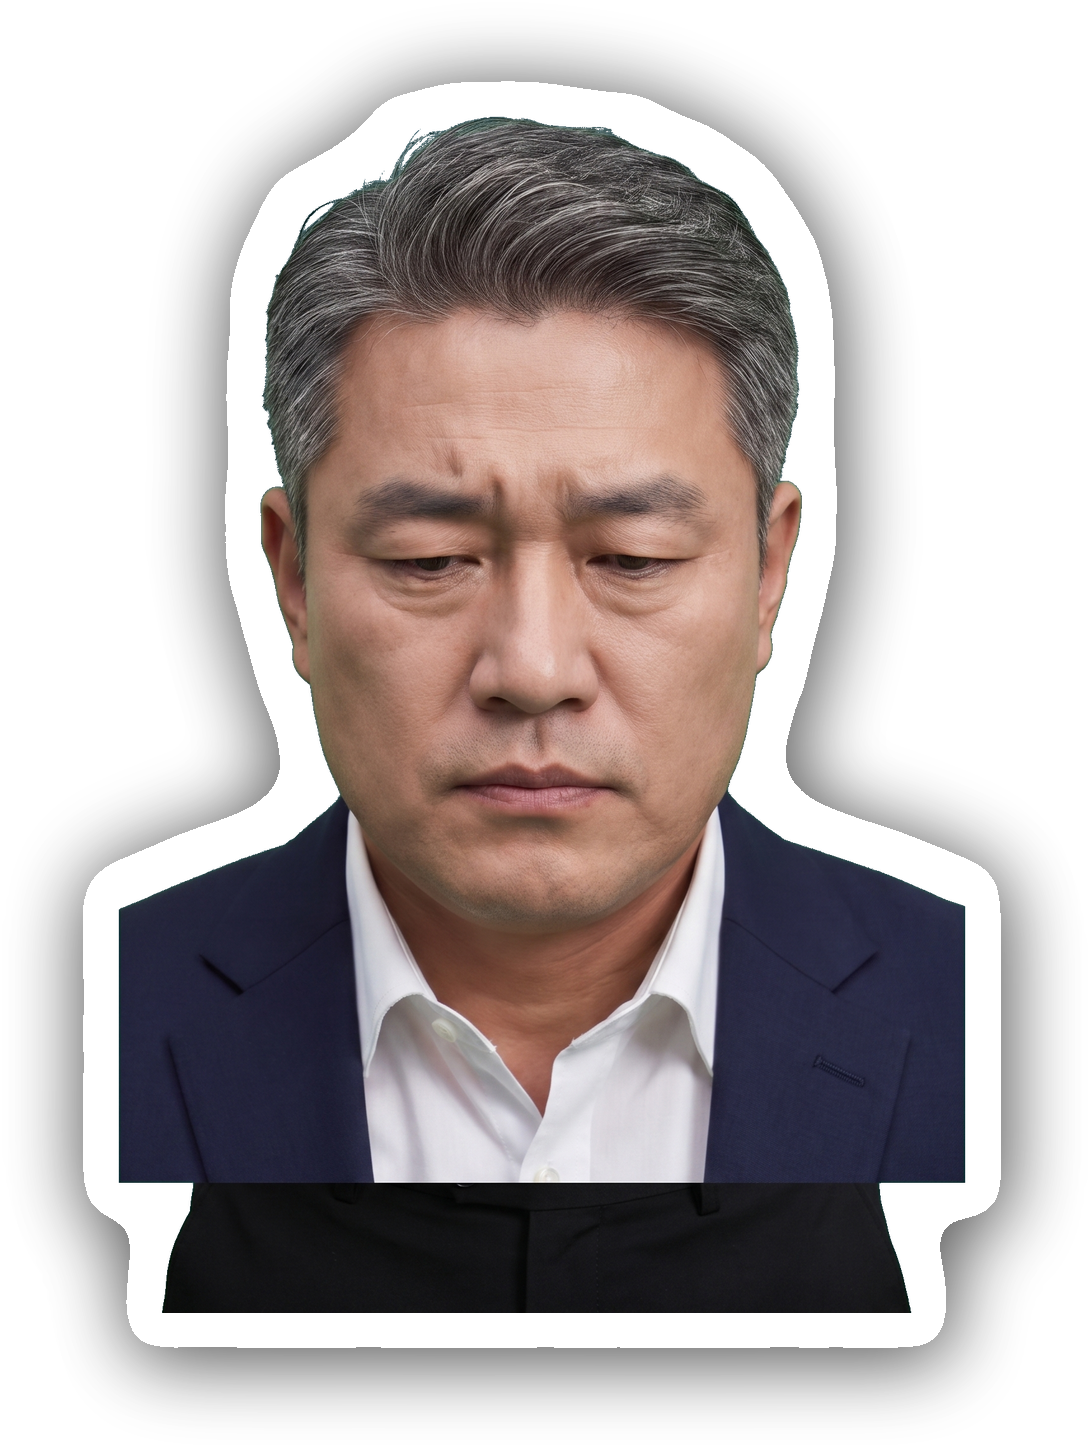
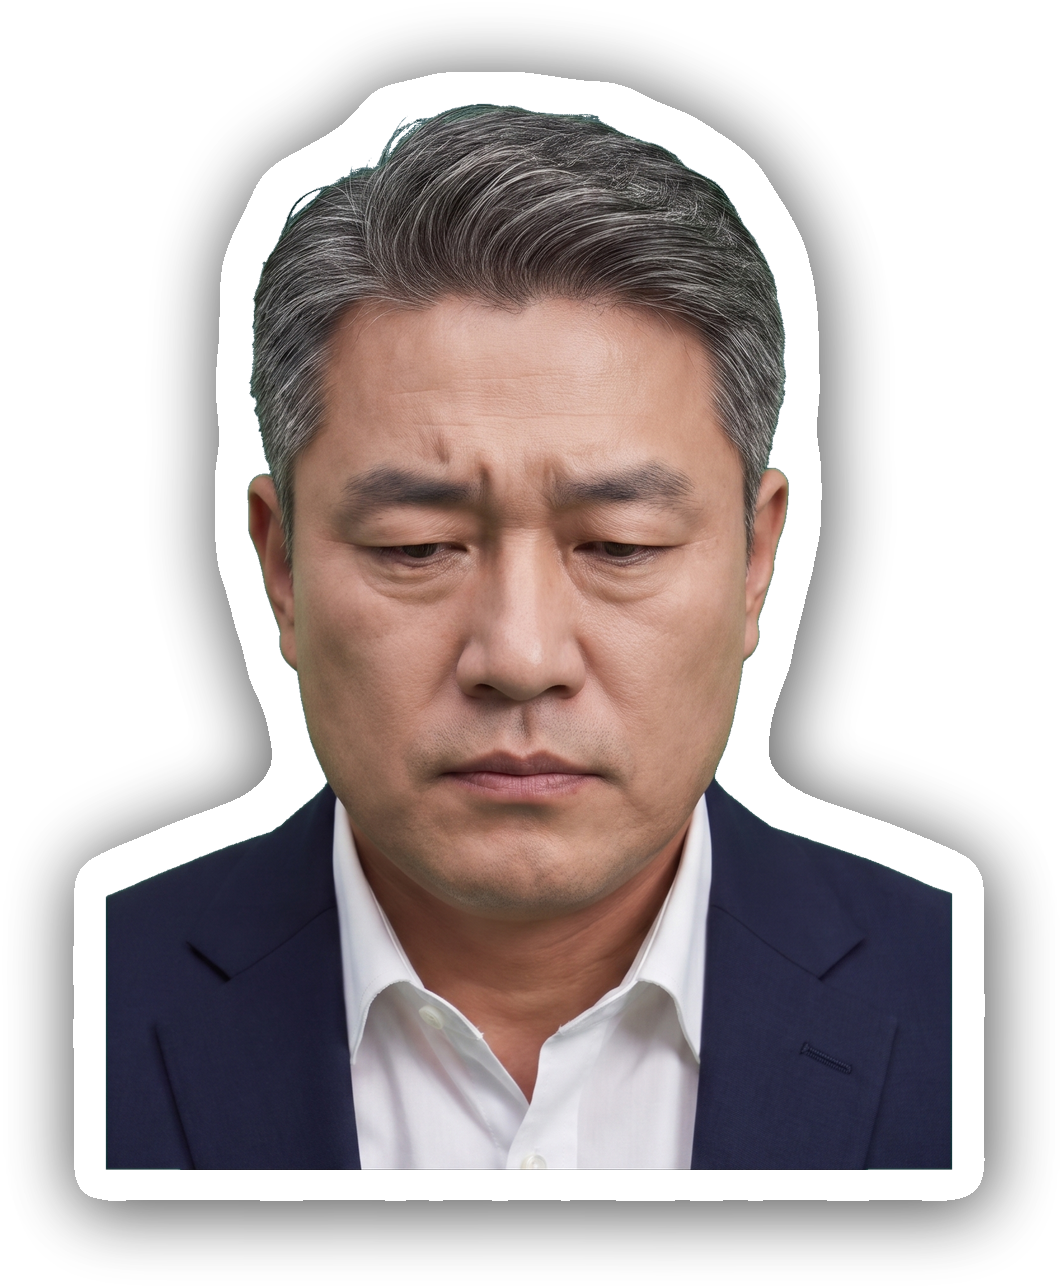
인물 아래에 남은 검은 띠를 잘라낸다 (src/blackbar.py)
시트에서 칸 아래 경계선이 인물과 함께 딸려 나왔고, 그 위에 흰 테두리가 둘러져
인물 밑에 '검은 가로 띠 + 흰 테두리' 가 붙어 있었다. 25장 중 11장.
  M50A/bust_sad 131px · F50A 8~10px · JUDGE 5px · M50B 3~4px

방법 (API 호출 0회)
  ① 흰 테두리를 벗긴다 — 바깥에서 흰색을 타고 들어가며 지운다
  ② 맨 아래에서 위로 훑으며 한 줄이 통째로 검은 구간을 센다
  ③ 그만큼 잘라내고 흰 테두리를 다시 두른다

⚠ 옷의 검정과 구분하는 방법을 두 번 바꿨다
   처음엔 '밝기 편차가 작고 좌우 끝이 자로 그은 듯 일정할 것' 으로 걸렀는데
   실제 파일이 전부 탈락했다(실측: 편차 41.6, 좌끝 흔들림 99px).
   인쇄된 선처럼 깔끔하지 않기 때문이다.
   지금은 **두께 상한**(그림 높이의 15%)으로 가른다 — 띠는 얇고 검은 옷은 두껍다.
   전신(full_*)은 아예 건드리지 않는다. 검은 바지·구두가 있어 위험하다.

diff --git a/src/blackbar.py b/src/blackbar.py
@@ -1,0 +1,137 @@
+#!/usr/bin/env python3
+"""컷아웃 아래에 남은 **검은 띠**를 잘라낸다.
+
+    python3 src/blackbar.py --dry      잘라낼 곳만 확인
+    python3 src/blackbar.py            실제로 잘라내고 저장
+    python3 src/blackbar.py --only M50A
+
+무엇이 문제였나
+    인물 시트에서 칸 아래쪽 경계선이 인물과 함께 딸려 나왔다. 그 위에 흰 테두리가
+    둘러지면서, 인물 밑에 **검은 가로 띠 + 흰 테두리**가 붙은 채로 남았다.
+
+어떻게 잘라내나
+    ① 흰 테두리를 벗긴다 — 바깥(투명한 곳)에서 흰색을 타고 들어가며 지운다.
+       ⚠ 알파를 깎는 방법은 안 된다. 테두리를 만들 때 머리카락 사이 같은 오목한 곳이
+          흰색으로 메워지는데, 같은 만큼 깎아도 그 메움은 열리지 않는다.
+    ② 맨 아래에서 위로 훑으며 '거의 완전한 검정이 가로로 쭉 이어지는 줄' 을 센다.
+       옷의 검정과 구분되는 이유: 이 띠는 **한 줄이 통째로 새까맣고 폭이 일정하다.**
+    ③ 그만큼 잘라내고 흰 테두리를 다시 두른다.
+
+    ⚠ 전신(full_*)에는 손대지 않는다. 검은 바지·구두가 있어 잘못 자를 위험이 있다.
+"""
+import argparse
+from pathlib import Path
+
+from PIL import Image, ImageChops, ImageDraw, ImageFilter
+
+import sys
+sys.path.insert(0, str(Path(__file__).resolve().parent))
+import assets_gen as A  # noqa: E402
+
+ROOT = Path(__file__).resolve().parent.parent
+CHAR = ROOT / "assets" / "char"
+
+DARK = 62            # 이 값보다 어두우면 '검정' 으로 본다
+FILL = 0.93          # 한 줄에서 검정이 차지해야 하는 최소 비율
+MIN_BAND = 0.003     # 그림 높이의 이 비율보다 두꺼워야 띠로 인정한다
+MAX_BAND = 0.15      # 이보다 두꺼우면 띠가 아니라 검은 옷이다 — 건드리지 않는다
+
+
+def strip_outline(sp, white_at=238):
+    """흰 스티커 테두리를 벗긴다 — 바깥에서 흰색을 타고 들어가며 지운다."""
+    pad = 2
+    W, H = sp.width + pad * 2, sp.height + pad * 2
+    big = Image.new("RGBA", (W, H), (0, 0, 0, 0))
+    big.paste(sp, (pad, pad))
+    r, g, b = big.convert("RGB").split()
+    a = big.getchannel("A")
+    near_white = ImageChops.multiply(
+        ImageChops.multiply(r.point(lambda v: 255 if v >= white_at else 0),
+                            g.point(lambda v: 255 if v >= white_at else 0)),
+        b.point(lambda v: 255 if v >= white_at else 0))
+    outside = ImageChops.lighter(a.point(lambda v: 255 if v < 128 else 0), near_white)
+    ImageDraw.floodfill(outside, (0, 0), 90, thresh=0)
+    ring = outside.point(lambda v: 255 if v == 90 else 0)
+    keep = ImageChops.subtract(a, ring).filter(ImageFilter.GaussianBlur(1.0))
+    out = big.copy()
+    out.putalpha(keep)
+    bb = keep.point(lambda v: 255 if v > 40 else 0).getbbox()
+    return out.crop(bb) if bb else out
+
+
+def black_band(sp):
+    """아래에서 위로 이어지는 검은 띠의 두께(픽셀). 없으면 0.
+
+    ⚠ '어두우면 자른다' 로는 안 된다. 남색 양복·검은 스웨터도 어두워서
+       아래에서부터 옷을 통째로 잘라먹는다.
+    띠는 **인쇄된 선**이라 옷과 다르다 — 한 줄이 통째로 새까맣고,
+    밝기 편차가 거의 없고, 좌우 끝이 자로 그은 듯 일정하다. 그 세 가지를 함께 본다."""
+    from PIL import ImageStat
+    rgb, a = sp.convert("RGB"), sp.getchannel("A")
+    r, g, b = rgb.split()
+    dark = ImageChops.multiply(
+        ImageChops.multiply(r.point(lambda v: 255 if v < DARK else 0),
+                            g.point(lambda v: 255 if v < DARK else 0)),
+        ImageChops.multiply(b.point(lambda v: 255 if v < DARK else 0),
+                            a.point(lambda v: 255 if v > 150 else 0)))
+    solid = a.point(lambda v: 255 if v > 150 else 0)
+    W, H = sp.size
+    dp, sp_ = dark.load(), solid.load()
+    step = max(1, W // 220)
+
+    band, spans = 0, []
+    for y in range(H - 1, -1, -1):
+        on = [x for x in range(0, W, step) if sp_[x, y]]
+        if not on:
+            band += 1
+            continue
+        blk = sum(1 for x in on if dp[x, y])
+        if len(on) < (W / step) * 0.35 or blk / len(on) < FILL:
+            break
+        spans.append((on[0] * step, on[-1] * step))
+        band += 1
+    # ⚠ '밝기 편차가 작고 좌우 끝이 일정해야 한다' 는 조건은 실제 파일에서 다 걸렀다
+    #    (실측: 편차 41.6, 좌끝 흔들림 99px). 인쇄된 선처럼 깔끔하지 않기 때문이다.
+    #    대신 **두께 상한**으로 옷과 가른다. 띠는 얇고, 검은 옷은 두껍다.
+    if band < H * MIN_BAND or band > H * MAX_BAND or not spans:
+        return 0
+    return band
+
+
+def fix(path, dry=False):
+    sp = Image.open(path).convert("RGBA")
+    plain = strip_outline(sp)
+    band = black_band(plain)
+    if not band:
+        return 0
+    cut = plain.crop((0, 0, plain.width, max(1, plain.height - band)))
+    cut = A.trim_alpha(cut)
+    if cut is None:
+        return 0
+    print(f"  {path.parent.name}/{path.stem:14} 검은 띠 {band}px 잘라냄"
+          f"  {sp.size} → {cut.width}x{cut.height}(테두리 전)")
+    if not dry:
+        A.white_outline(cut).save(path)
+    return band
+
+
+def main():
+    ap = argparse.ArgumentParser()
+    ap.add_argument("--dry", action="store_true", help="자르지 않고 확인만")
+    ap.add_argument("--only", default="", help="이 인물만 (쉼표로 구분)")
+    args = ap.parse_args()
+
+    files = [f for f in sorted(CHAR.glob("*/*.png"))
+             if not f.stem.startswith("full_")]      # 전신은 건드리지 않는다
+    if args.only:
+        want = {s.strip() for s in args.only.split(",") if s.strip()}
+        files = [f for f in files if f.parent.name in want]
+
+    n = sum(1 for f in files if fix(f, dry=args.dry))
+    print(f"\n{n}장에서 검은 띠를 잘라냈다 (검사 {len(files)}장, 전신 제외)"
+          + ("   [--dry — 저장하지 않았다]" if args.dry else ""))
+    return 0
+
+
+if __name__ == "__main__":
+    raise SystemExit(main())
